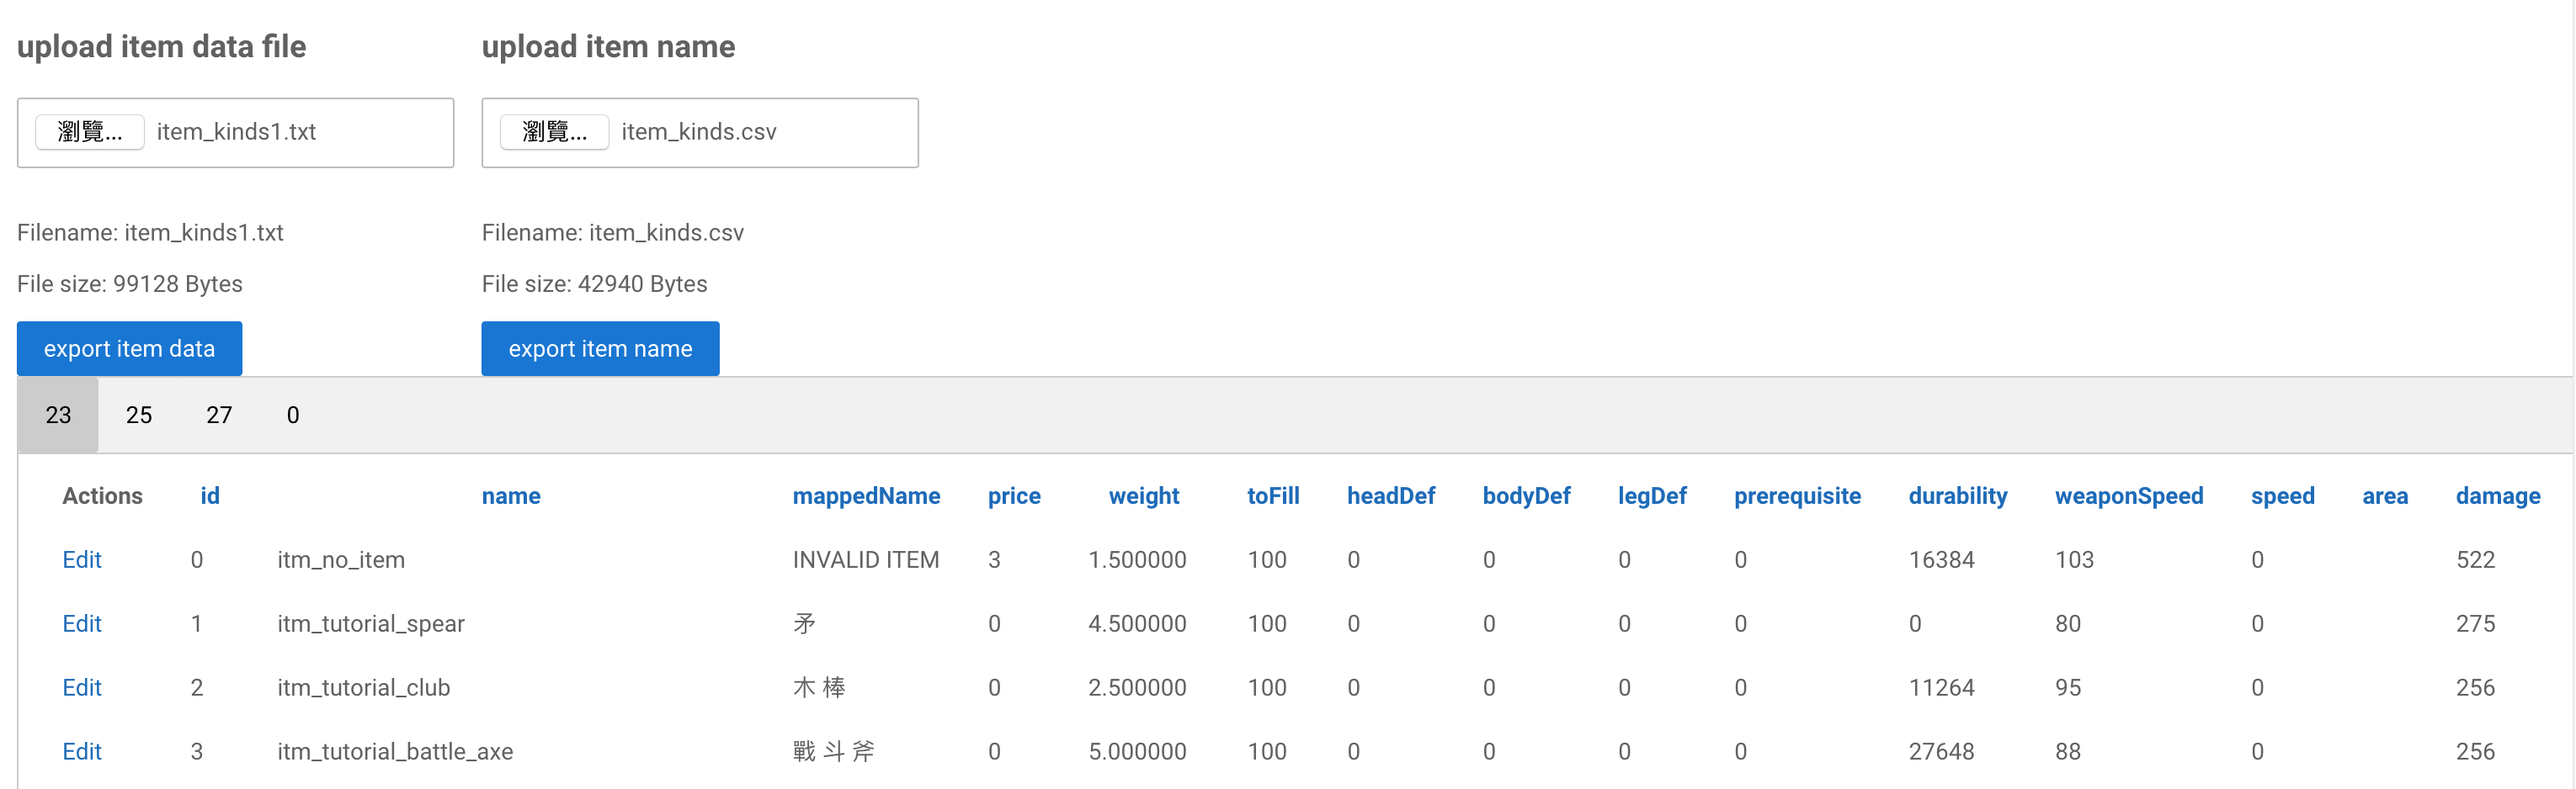
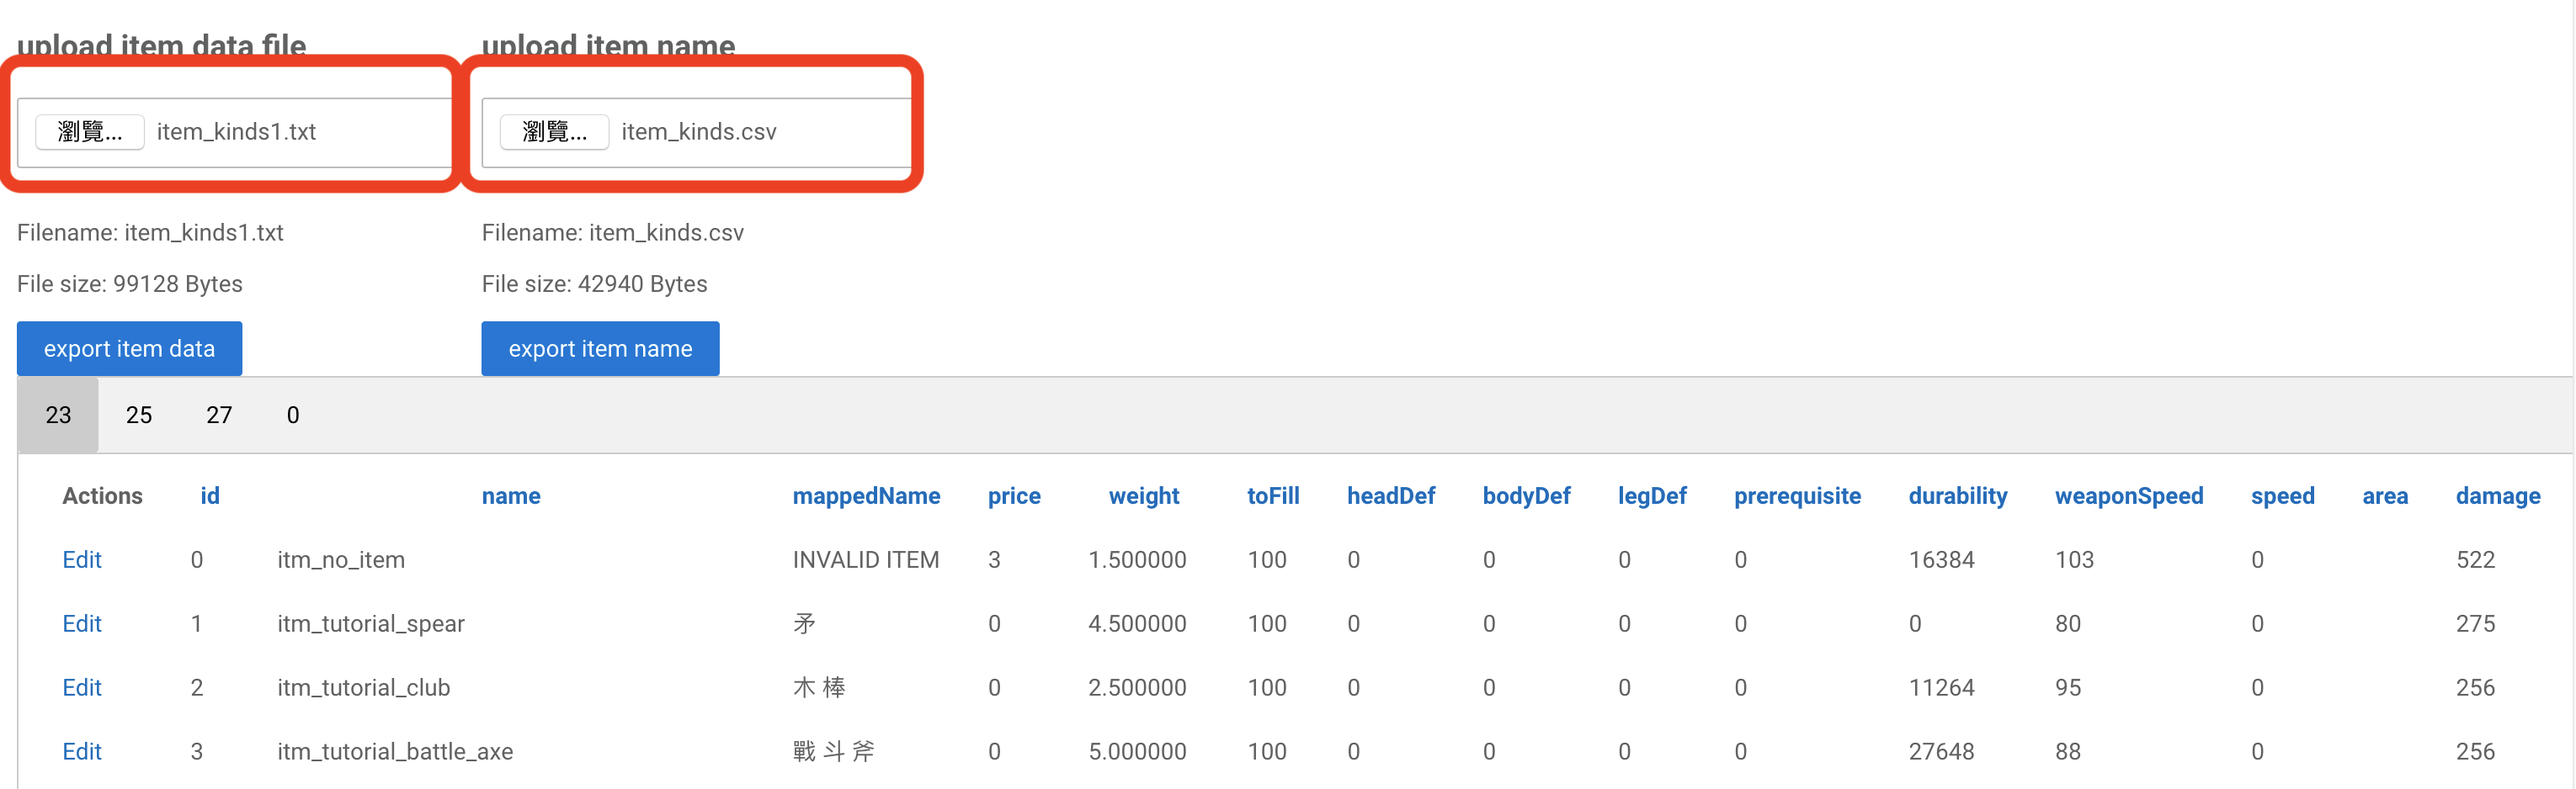
update how to use

Changed region(s): [[0.0, 0.0618, 0.3725, 0.2473]]

diff --git a/README.md b/README.md
@@ -4,8 +4,22 @@ Mount and Blade Item Editor implement by AngularJS 8
 This project was generated with [Angular CLI](https://github.com/angular/angular-cli) version 8.3.12.
 
 ## How to use
-working...
+1. upload data file (item_kinds1.txt, item_kinds.csv)
+![upload files](https://github.com/kan01234/mb-item-editor/blob/master/img/sc-1.png)
 
+2. switch to anothe tab
+![swtich tab](https://github.com/kan01234/mb-item-editor/blob/master/img/sc-2.png)
+
+3. item data
+![item data](https://github.com/kan01234/mb-item-editor/blob/master/img/sc-3.png)
+click "Edit" to change item data
+
+4. modify item data
+![modify item data](https://github.com/kan01234/mb-item-editor/blob/master/img/sc-4.png)
+click "Update" to save, "Cancel" to cancel
+
+5. export item data
+![export item data](https://github.com/kan01234/mb-item-editor/blob/master/img/sc-5.png)
 
 ### TODO
 - [x] update item data
